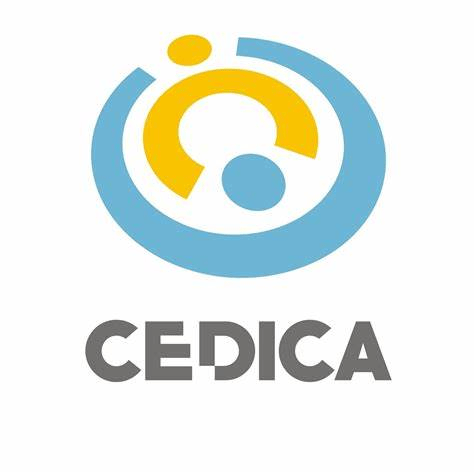
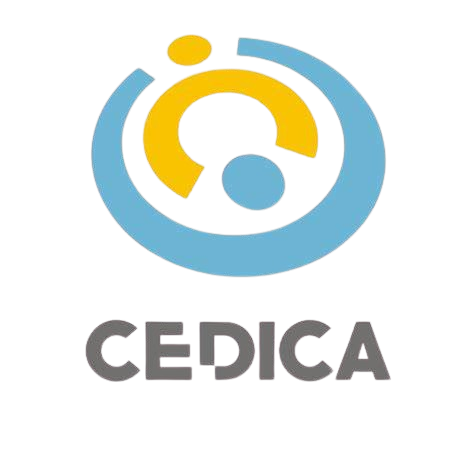
Feature navbar

diff --git a/admin/src/web/templates/layout/navbar.html b/admin/src/web/templates/layout/navbar.html
@@ -1,0 +1,26 @@
+<nav class="navbar navbar-expand-lg bg-body-tertiary" data-bs-theme="dark">
+    <div class="container-fluid">
+        <a class="navbar-brand" href="{{ url_for('home') }}">
+            <img src="{{ url_for('static', filename='img/cedica.png') }}" class="logo-navbar" alt="Logo Cedica">
+        </a>        
+      <div class="collapse navbar-collapse" id="navbarTogglerDemo02">
+        <ul class="navbar-nav me-auto mb-2 mb-lg-0" aria-label="Secciones principales del sitio">
+            <li class="nav-item">
+            <a class="nav-link active" aria-current="page" href="#">Jinetes/Amazonas</a>
+          </li>
+          <li class="nav-item">
+            <a class="nav-link active" aria-current="page" href="#">Ecuestre</a>
+          </li>
+          <li class="nav-item">
+            <a class="nav-link active" aria-current="page" href="#">Equipo</a>
+          </li>
+        </ul>
+        <form class="d-flex" role="search">
+          <label for="search-bar" class="visually-hidden">Buscar en el sitio</label>
+
+          <input id="search-bar" class="form-control me-2" type="search" placeholder="Buscar" aria-label="Barra de búsqueda">
+          <button class="btn btn-outline-success" type="submit" aria-label="Botón de buscar">Buscar</button>
+        </form>
+      </div>
+    </div>
+  </nav>

diff --git a/admin/static/style.css b/admin/static/style.css
@@ -25,7 +25,7 @@ h1 {
 }
 
 .btn-verde {
-    background-color: #048b3c;
+    background-color: #106d37;
     color: rgb(255, 255, 255); 
     padding: 10px 20px; 
     border: none; 
@@ -51,4 +51,11 @@ h5 {
     background-size: 50px 50px; 
     border-radius: 10px; 
     z-index: -1;
+}
+
+.logo-navbar {
+    width: fit-content; 
+    height: fit-content; 
+    display: block; 
+    max-height: 60px; 
 }
